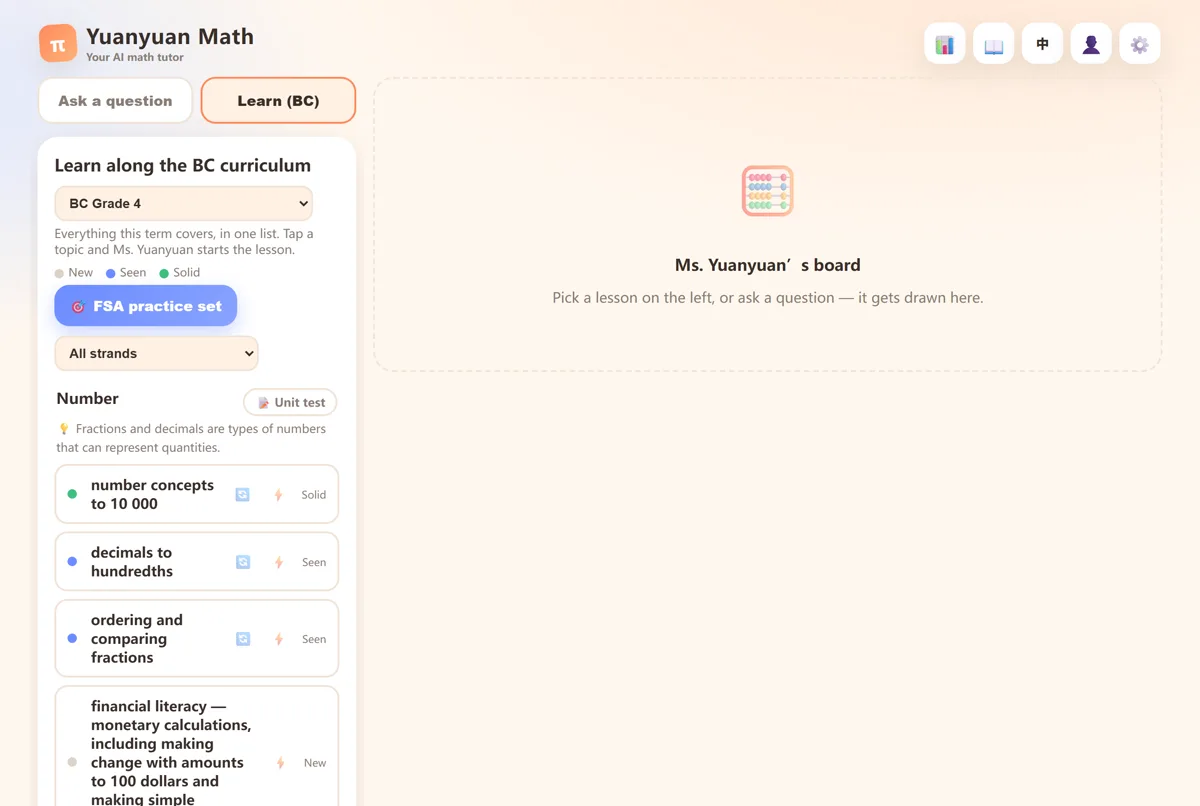
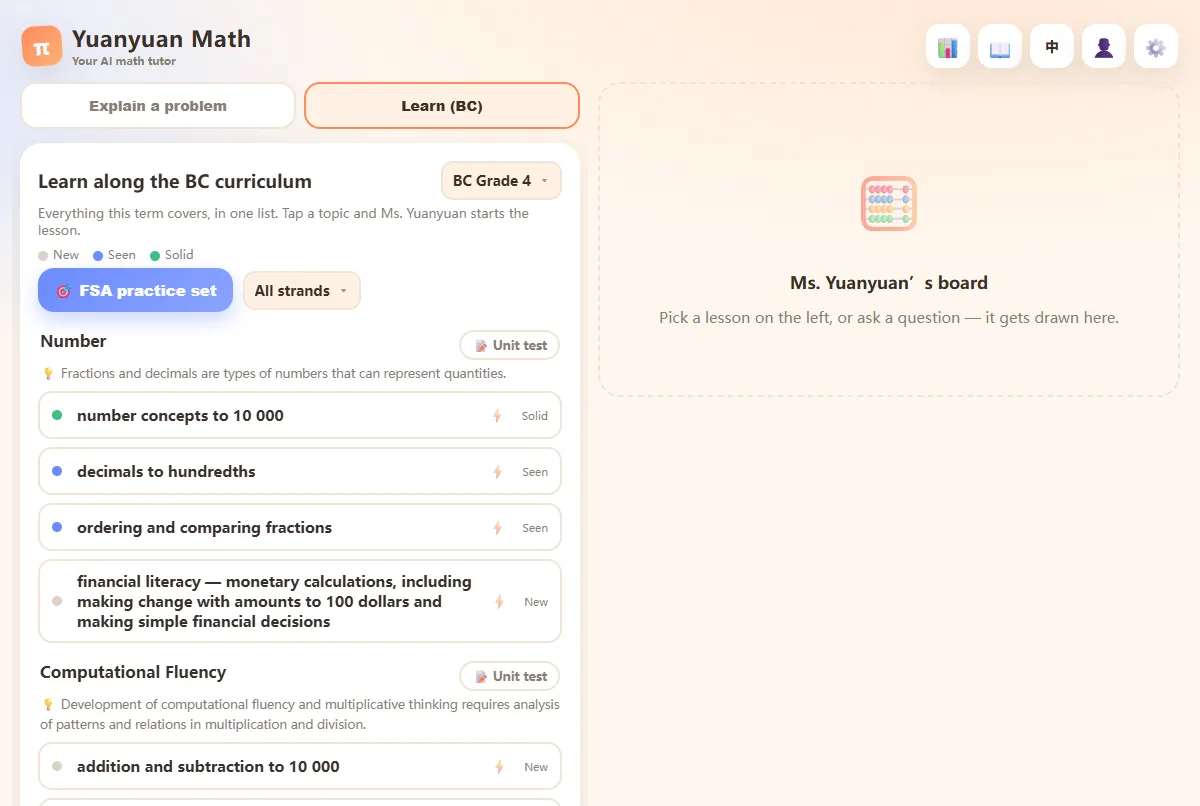
ui: rename "Ask a question" tab to "Explain a problem"
"Ask a question" and "Ask a tutor" read as the same thing in English; the
tab actually generates a full step-by-step lesson (zh label is 出题讲课).
Rail tabs get 14px / 6px side padding so the longer label stays on one
line in the 340px split-view rail.

Landing page: retake home/learn/lesson/og screenshots from an isolated
YY_DEMO instance (lesson from pack, zero engine calls) and update alt
text and home image dimensions.

diff --git a/public/index.html b/public/index.html
@@ -360,6 +360,8 @@
           overscroll-behavior:contain;padding:8px;margin:-8px}
     .rail .card{padding:16px}
     .rail .tabs{margin:0}
+    /* 340 的边条里两个标签各约 158px，15px 字「Explain a problem」刚好折行 —— 稍收字号和左右内边距 */
+    .rail .tabbtn{font-size:14px;padding:12px 6px}
     .rail .hi{font-size:18px}
     .rail .sub{font-size:13px;margin-bottom:10px}
     .rail textarea{min-height:96px}
@@ -1056,7 +1058,7 @@ const I18N = {
     clearAllConfirm:"Erase ALL records?\n\nProgress, lesson history, FSA sets, quiz banks and Ask-a-tutor history will be deleted. This cannot be undone!",
     clearDone:"Cleared ✓",
     cancel:"Cancel", save:"Save",
-    tabAsk:"Ask a question", tabLearn:"Learn (BC)", tabTutor:"Ask a tutor",
+    tabAsk:"Explain a problem", tabLearn:"Learn (BC)", tabTutor:"Ask a tutor",
     tutorTitle:"Ask Yuanyuan", tutorPh:"e.g. Why are 1/2 and 2/4 the same size?",
     tutorSubHint:"Type a math question. You'll get a hint so you can work it out yourself.", tutorSubAnswer:"Type a math question. Ask for just a hint, or a full explanation.",
     tutorSubParent:"This is {name}'s question history. You can also ask on their behalf — it's saved as \"asked by parent\".",

diff --git a/docs/index.html b/docs/index.html
@@ -324,8 +324,8 @@
     </div>
 
     <div class="row2 rise">
-      <div class="shot"><img src="assets/home-en.webp" loading="lazy" width="1000" height="1281"
-        alt="Ask a question: type a problem or snap a photo of the homework, and pick from suggested starter questions" /></div>
+      <div class="shot"><img src="assets/home-en.webp" loading="lazy" width="1003" height="1183"
+        alt="Explain a problem: type a problem or snap a photo of the homework, and pick from suggested starter questions" /></div>
       <div class="txt">
         <h3><span lang="en">Ask it anything <small style="color:var(--muted);font-weight:700">(this part wants an engine)</small></span>
             <span lang="zh">自己的题随便问 <small style="color:var(--muted);font-weight:700">（这部分需要引擎）</small></span></h3>
